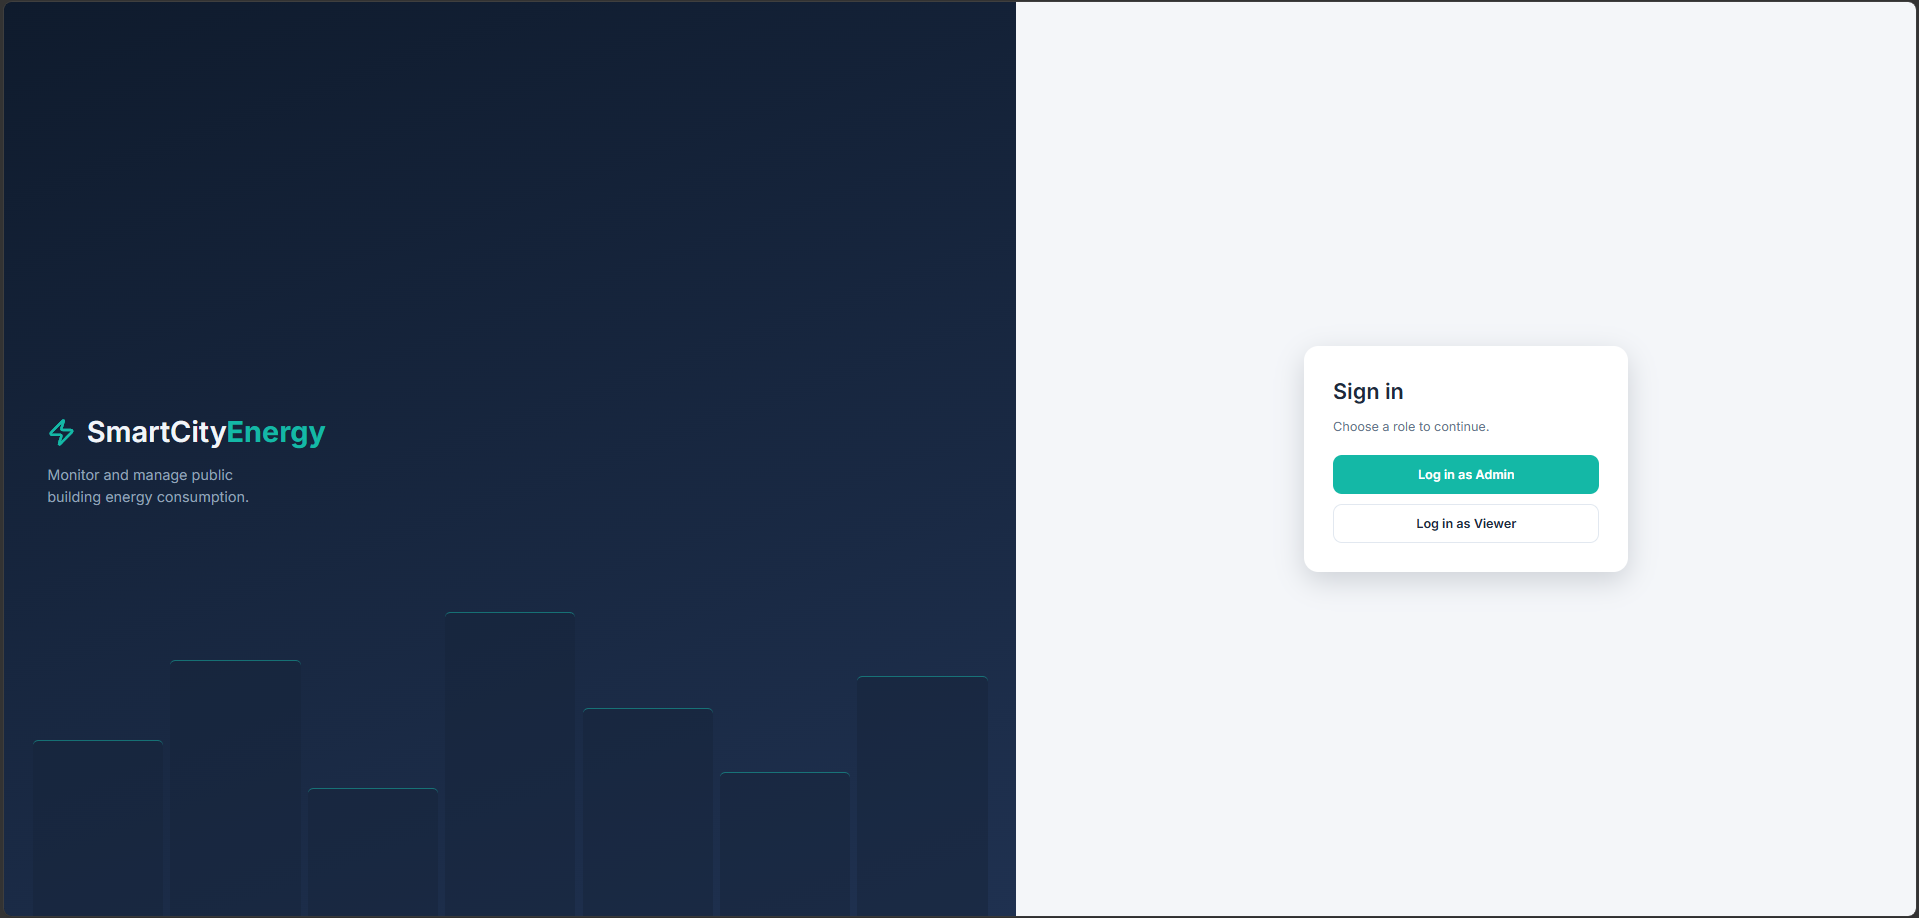
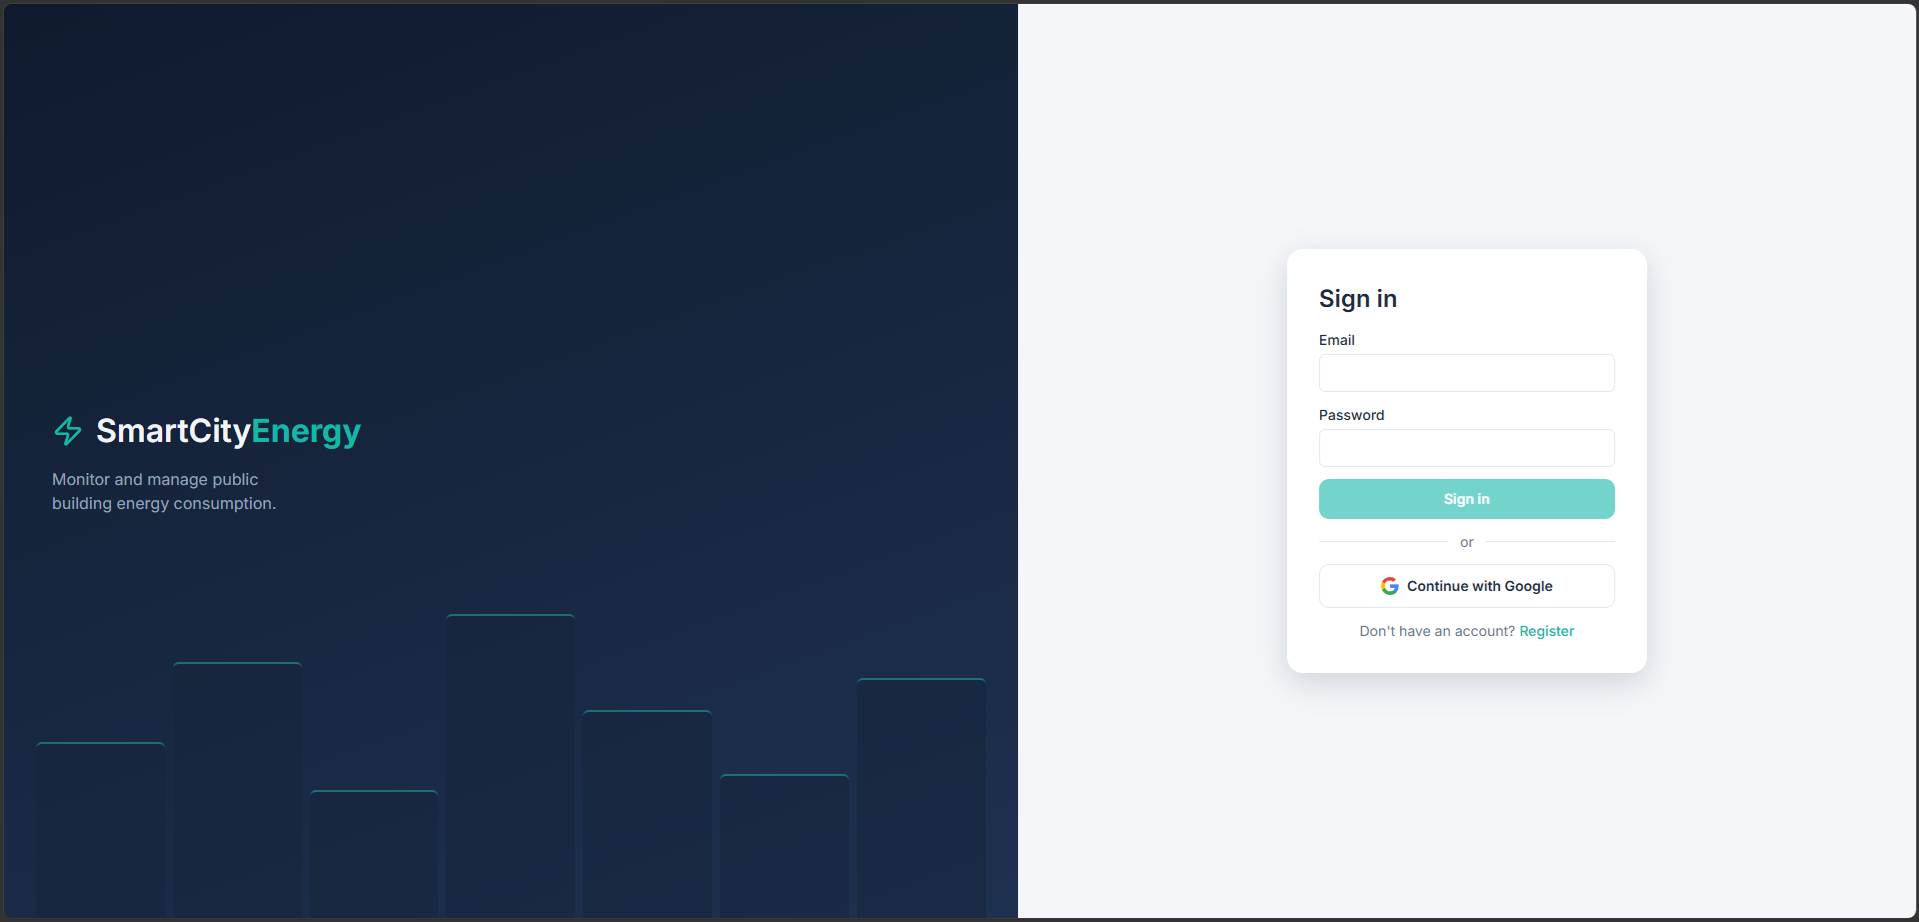
fix(docs): update ui screenshots

diff --git a/README.md b/README.md
@@ -17,9 +17,9 @@ An Angular 18 single-page application for managing smart city infrastructure —
 
 ## Screenshots
 
-![Login](docs/screenshots/login-page.png)
-![Building list](docs/screenshots/building-list.png)
-![Building detail](docs/screenshots/building-detail.png)
+![Login](docs/screenshots/login-page.png?v=2) 
+![Building list](docs/screenshots/building-list.png?v=2)
+![Building detail](docs/screenshots/building-detail.png?v=2)
 
 ---
 